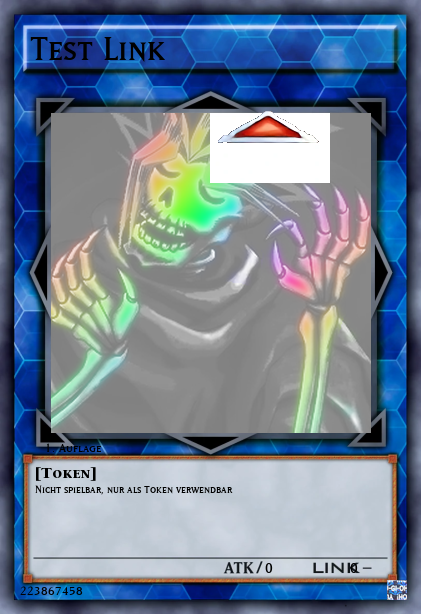
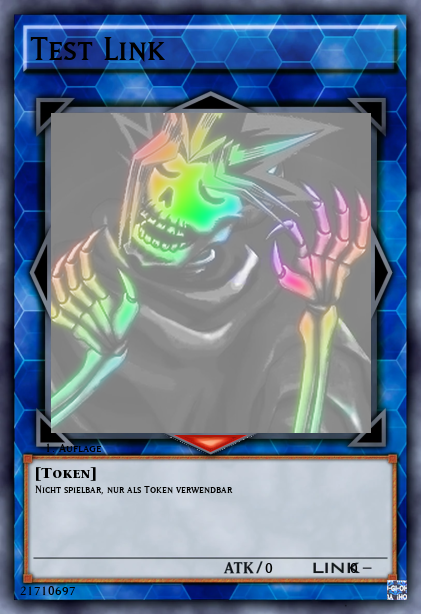
Link Update

Changed region(s): [[0.4941, 0.1547, 0.8029, 0.3094], [0.4323, 0.6808, 0.5867, 0.7427], [0.0618, 0.9593, 0.1853, 0.9902]]

diff --git a/scripts/CardMaker.py b/scripts/CardMaker.py
@@ -136,12 +136,38 @@ class DrawImageCard():
     image_with_text.paste(card, area)
     print("Card Image: " + image_card + "\n")
     if linkschema == "0 1 0   0   0   0 0 0":
-            area_lx = 210
-            area_ly = 103
+            area_lx = 164
+            area_ly = 90
+            Image.ROTATE_90
             area = area_lx, area_ly
             linkTM_image = "LM-Top.png"
             link_file = Image.open(souce_path + path_linkarrow + linkTM_image)
             image_with_text.paste(link_file, area)  
+    elif linkschema == "0  0   1   0   0 0 0":
+            area_lx = 163
+            area_ly = 90
+            Image.ROTATE_90
+            area = area_lx, area_ly
+            linkTM_image = "LM-Right.png"
+            link_file = Image.open(souce_path + path_linkarrow + linkTM_image)
+            image_with_text.paste(link_file, area) 
+    elif linkschema == "0  0   0   1   0 0 0":
+            area_lx = 163
+            area_ly = 90
+            Image.ROTATE_90
+            area = area_lx, area_ly
+            linkTM_image = "LM-Left.png"
+            link_file = Image.open(souce_path + path_linkarrow + linkTM_image)
+            image_with_text.paste(link_file, area)             
+    elif linkschema == "0 0 0   0   0   0 1 0":
+            area_lx = 164
+            area_ly = 433
+            Image.ROTATE_90
+            area = area_lx, area_ly
+            linkTM_image = "LM-Bottom.png"
+            link_file = Image.open(souce_path + path_linkarrow + linkTM_image)
+            image_with_text.paste(link_file, area) 
+
 class DrawText():
     title_x = 30
     title_y = 28 

diff --git a/Creator.py b/Creator.py
@@ -16,7 +16,7 @@ desc_color  = "black"
 Level       = 0
 lvlcolor    = "red"
             #  Top  |  Mid  |  Dow
-linkschema = "0 1 0   0   0   0 0 0"
+linkschema = "0 0 0   0   0   0 1 0"
 
 Type        = "[Token]"
 Description = "Nicht spielbar, nur als Token verwendbar"
